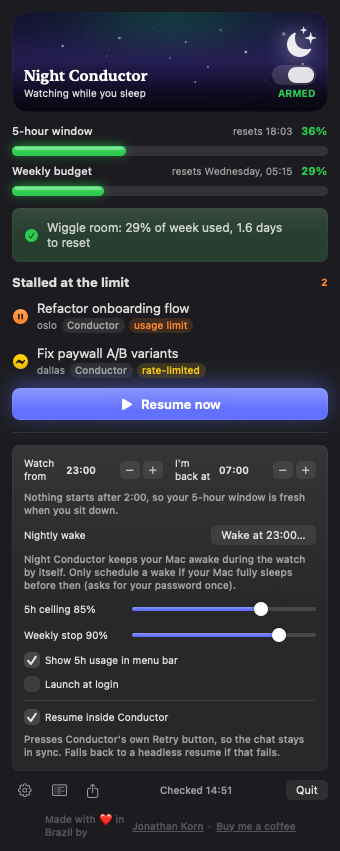
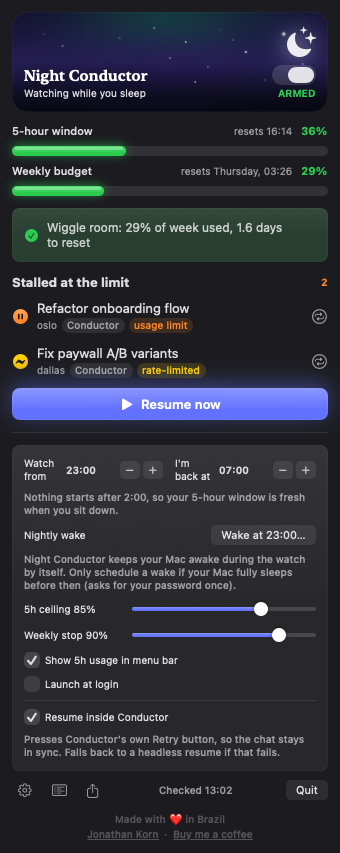
fix(ux): reframe the daytime resting state — "you're at the helm", not a warning
The decision banner painted every non-resume state amber with a pause icon,
so the normal daytime state (the night watch simply hasn't started) looked
like a problem — and "Outside active hours" was ambiguous: during the day you
ARE in your active hours; Night Conductor takes over outside them.

Decision now carries a semantic DecisionState:
- standingBy (calm indigo, moon) — you're at the helm, watch starts at HH:00
- resuming (green check) — clear to resume
- holding (amber pause) — on watch but a budget/timing gate holds
- checking (neutral) — usage not known yet

Reworded the off-watch reason to "You're at the helm — night watch starts at
HH:00". Regenerated popover/settings screenshots. 31 tests green.

diff --git a/NightConductor/Tests/NightConductorTests/PolicyTests.swift b/NightConductor/Tests/NightConductorTests/PolicyTests.swift
@@ -33,6 +33,28 @@ final class PolicyTests: XCTestCase {
         XCTAssertTrue(Policy.inActiveHours(hour: 5, start: 0, end: 0)) // always
     }
 
+    func testDecisionStatesReflectWhyNotResuming() {
+        let noon = date(hour: 12)
+        // Daytime: off the night watch — a calm standing-by state, not a hold,
+        // and the copy no longer says the confusing "active hours".
+        let standby = Policy.shouldResume(
+            usage: snapshot(now: noon), config: PolicyConfig(), now: noon, calendar: utc)
+        XCTAssertEqual(standby.state, .standingBy)
+        XCTAssertFalse(standby.reason.localizedCaseInsensitiveContains("active hours"))
+
+        // In-window, healthy budget: clear to resume.
+        let twoAM = date(hour: 2)
+        let go = Policy.shouldResume(
+            usage: snapshot(now: twoAM), config: PolicyConfig(), now: twoAM, calendar: utc)
+        XCTAssertEqual(go.state, .resuming)
+
+        // In-window, over the 5h ceiling: an amber hold.
+        let hold = Policy.shouldResume(
+            usage: snapshot(fiveHour: 90, now: twoAM), config: PolicyConfig(),
+            now: twoAM, calendar: utc)
+        XCTAssertEqual(hold.state, .holding)
+    }
+
     func testFiveHourCeilingHolds() {
         let now = date(hour: 2)
         let decision = Policy.shouldResume(

diff --git a/NightConductor/Sources/NightConductor/Policy.swift b/NightConductor/Sources/NightConductor/Policy.swift
@@ -32,9 +32,13 @@ enum Policy {
         let hour = calendar.component(.hour, from: now)
         if !ignoreActiveHours,
            !inActiveHours(hour: hour, start: config.startHour, end: config.endHour) {
+            // Not a problem state — you're awake and at the helm; the night
+            // watch simply hasn't started yet. Phrase it around when it takes
+            // over, not "outside <something> hours".
             return Decision(
                 resume: false,
-                reason: "Outside active hours (\(config.startHour):00–\(config.endHour):00)"
+                reason: "You're at the helm — night watch starts at \(config.startHour):00",
+                state: .standingBy
             )
         }
 
@@ -97,7 +101,8 @@ enum Policy {
         return Decision(
             resume: true,
             reason: "Wiggle room: \(Int(weekUsed))% of week used, "
-                + String(format: "%.1f", daysLeft) + " days to reset"
+                + String(format: "%.1f", daysLeft) + " days to reset",
+            state: .resuming
         )
     }
 }

diff --git a/NightConductor/Sources/NightConductor/MenuView.swift b/NightConductor/Sources/NightConductor/MenuView.swift
@@ -162,13 +162,21 @@ struct MenuView: View {
     }
 
     private var decisionColor: Color {
-        guard let decision = state.decision else { return .gray }
-        return decision.resume ? .green : .orange
+        switch state.decision?.state {
+        case .resuming: return .green
+        case .standingBy: return .indigo   // calm & nocturnal — not a warning
+        case .holding: return .orange
+        case .checking, .none: return .secondary
+        }
     }
 
     private var decisionIcon: String {
-        guard let decision = state.decision else { return "clock" }
-        return decision.resume ? "checkmark.circle.fill" : "pause.circle.fill"
+        switch state.decision?.state {
+        case .resuming: return "checkmark.circle.fill"
+        case .standingBy: return "moon.stars.fill" // resting; wakes for the night
+        case .holding: return "pause.circle.fill"
+        case .checking, .none: return "clock"
+        }
     }
 
     @ViewBuilder

diff --git a/NightConductor/Sources/NightConductor/Models.swift b/NightConductor/Sources/NightConductor/Models.swift
@@ -84,9 +84,20 @@ struct StalledSession: Identifiable, Equatable {
     }
 }
 
+/// Why the watch is (not) resuming, so the UI can speak in the right tone.
+/// Crucially, being off the night watch during the day is NOT a warning —
+/// it's the resting state — so it must not look like the budget-hold states.
+enum DecisionState: Equatable {
+    case resuming    // green — clear to resume now
+    case standingBy  // calm — intentionally idle; you're at the helm, watch is off
+    case holding     // amber — on watch, but a budget/timing gate is holding
+    case checking    // neutral — usage not known yet
+}
+
 struct Decision: Equatable {
     let resume: Bool
     let reason: String
+    var state: DecisionState = .holding
 }
 
 struct PolicyConfig {

diff --git a/NightConductor/Sources/NightConductor/Screenshot.swift b/NightConductor/Sources/NightConductor/Screenshot.swift
@@ -106,8 +106,8 @@ enum Screenshotter {
             fetchedAt: now
         )
         state.decision = name == "high"
-            ? Decision(resume: false, reason: "5-hour window at 88% (ceiling 85%)")
-            : Decision(resume: true, reason: "Wiggle room: 29% of week used, 1.6 days to reset")
+            ? Decision(resume: false, reason: "5-hour window at 88% (ceiling 85%)", state: .holding)
+            : Decision(resume: true, reason: "Wiggle room: 29% of week used, 1.6 days to reset", state: .resuming)
         let base = [
             StalledSession(
                 sessionID: "demo-1", claudeSessionID: "demo-1",

diff --git a/NightConductor/Sources/NightConductor/AppState.swift b/NightConductor/Sources/NightConductor/AppState.swift
@@ -177,7 +177,8 @@ final class AppState: ObservableObject {
         }
         decision = Decision(
             resume: false,
-            reason: usage == nil ? "Checking usage…" : "Usage data is stale — holding"
+            reason: usage == nil ? "Checking usage…" : "Usage data is stale — holding",
+            state: .checking
         )
         return false
     }
